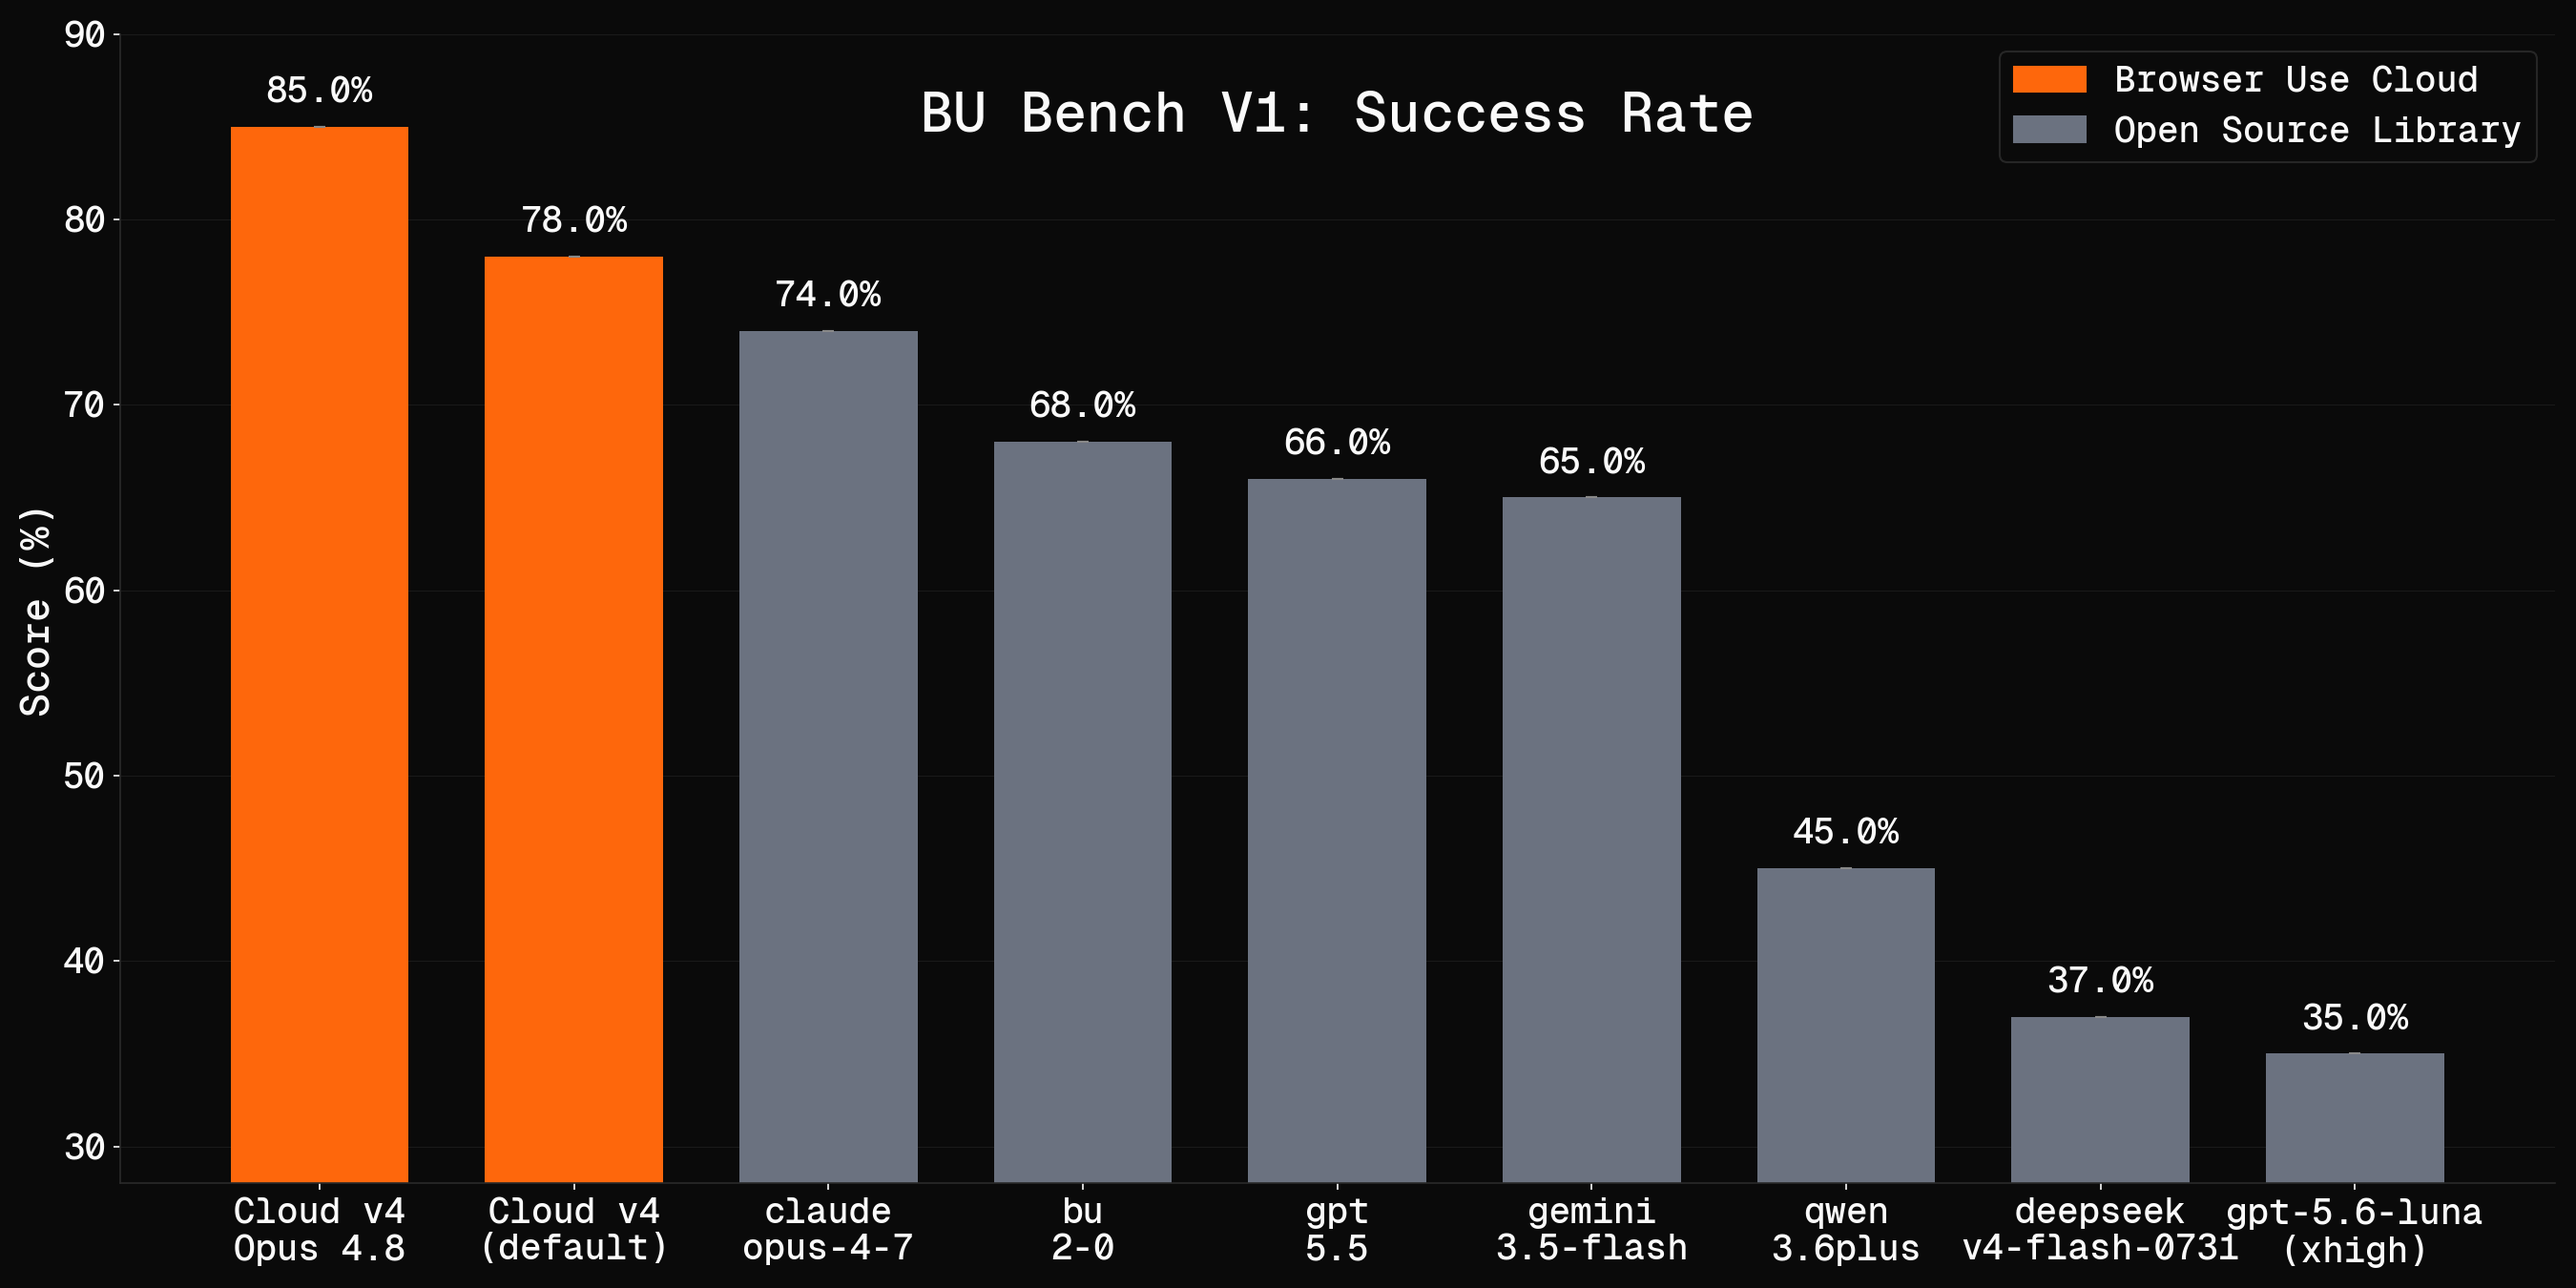
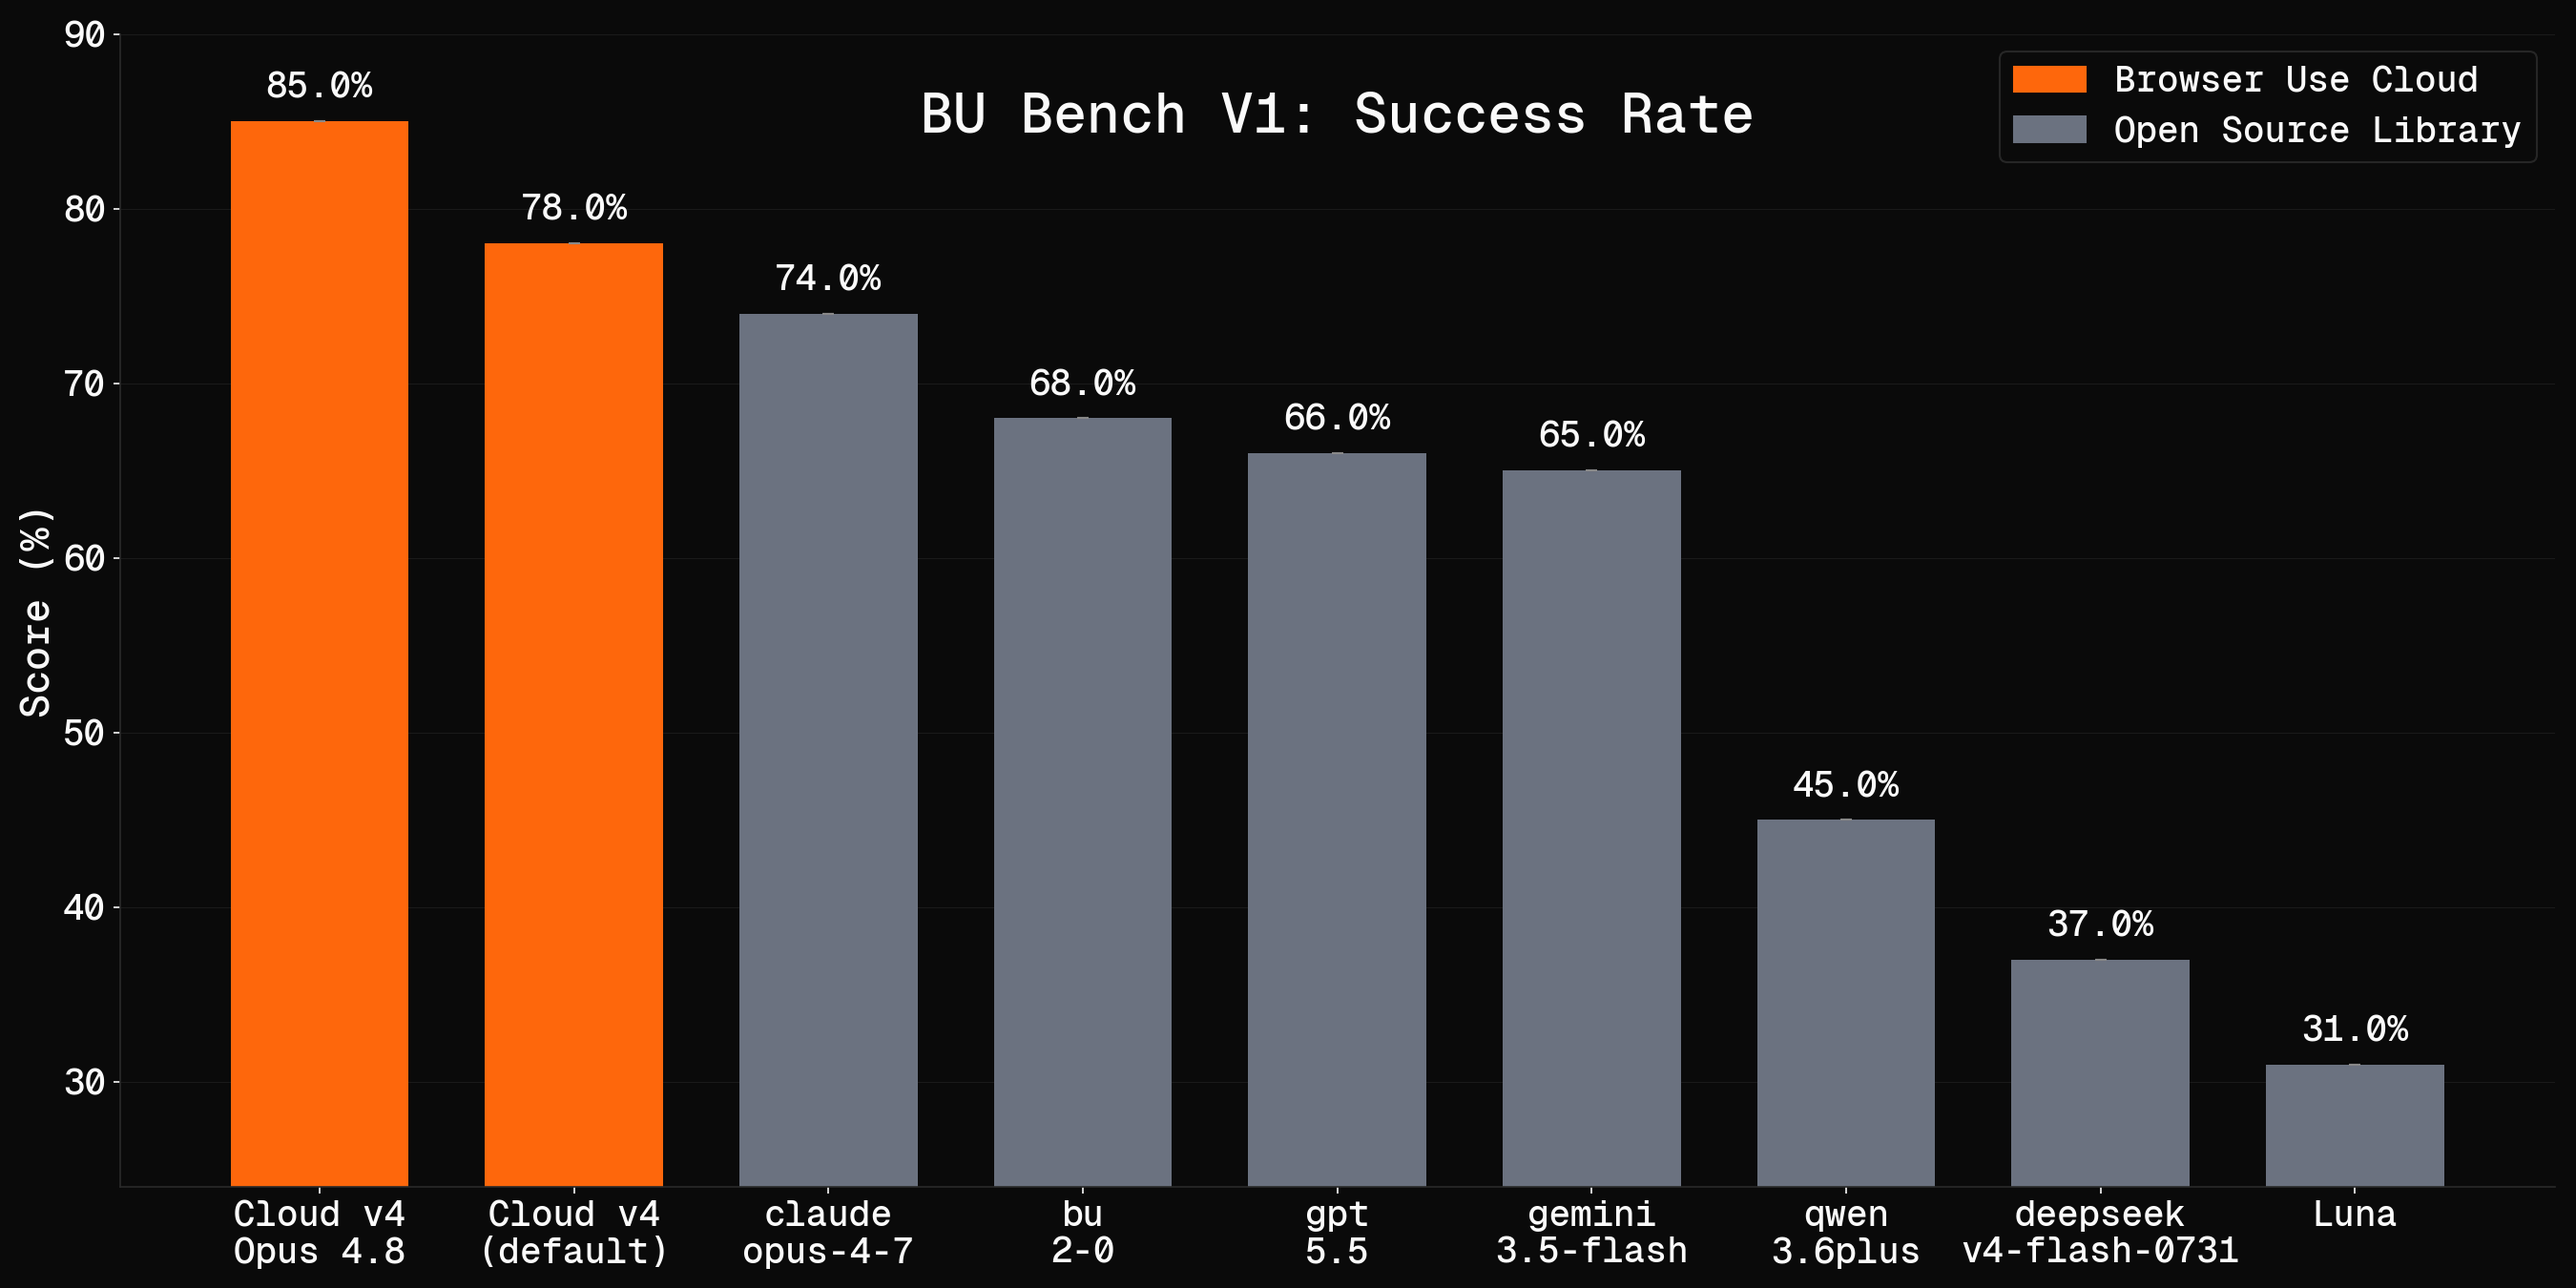
accuracy_by_model: plot luna out-of-box instead of effort-matched
The luna bar was gpt-5.6-luna at reasoning_effort=xhigh (35.0%), chosen to match
what Cloud v4 serves so the pair isolated the harness. Replaced with luna at the
library's actual default (31.0%, eval 9abf331b) and labelled plain 'Luna', since
that is what a user gets running browser-use with no configuration.

Note the default is 'low', not 'medium' -- ChatOpenAI hardcodes
reasoning_effort='low' (browser_use/llm/openai/chat.py:39). Only bcode's gpt-5*
baseline is 'medium'.

The pair is therefore no longer effort-matched, so the 47pp Cloud gap is now
harness plus effort rather than harness alone. Effort cannot carry much of it:
sweeping all four settings at 100 tasks each gave low 31%, medium 39%, high 34%,
xhigh 35%, and two runs of the same 'low' config differ by 5pp, so the entire
sweep spans about as much as the run-to-run noise. Worst case, effort accounts
for ~8pp of the 47pp.

The xhigh result is retired to old_results rather than deleted; the sweep is
recorded in the DISPLAY_NAMES comment.

diff --git a/generate_plots.py b/generate_plots.py
@@ -42,9 +42,16 @@ DISPLAY_NAMES: dict[str, str] = {
     # configuration -- no params passed.
     "bu-v4-luna": "Cloud v4\n(default)",
     "bu-v4-opus-4-8": "Cloud v4\nOpus 4.8",
-    # Effort-matched to the Cloud v4 default so the luna pair isolates the
-    # harness rather than the reasoning-effort setting.
-    "gpt-5.6-luna-xhigh": "gpt-5.6-luna\n(xhigh)",
+    # Out-of-box luna in the library: no reasoning_effort passed, which means
+    # 'low' -- ChatOpenAI hardcodes that default (browser_use/llm/openai/chat.py
+    # :39). Unqualified on the plot because it is what you get with no config.
+    #
+    # Effort does not move it. Sweeping all four settings at 100 tasks each gave
+    # low 31% (9abf331b), medium 39% (17732129), high 34% (e89a24b7), xhigh 35%
+    # (963d81f3), while two runs of the same 'low' config differ by 5pp (26% /
+    # 31%) -- the spread across the sweep is no bigger than the run-to-run noise.
+    # So this bar is not a worst-case pick; luna's ceiling here is ~39%.
+    "gpt-5.6-luna": "Luna",
 }
 
 CATEGORY_LABELS: dict[str, str] = {
